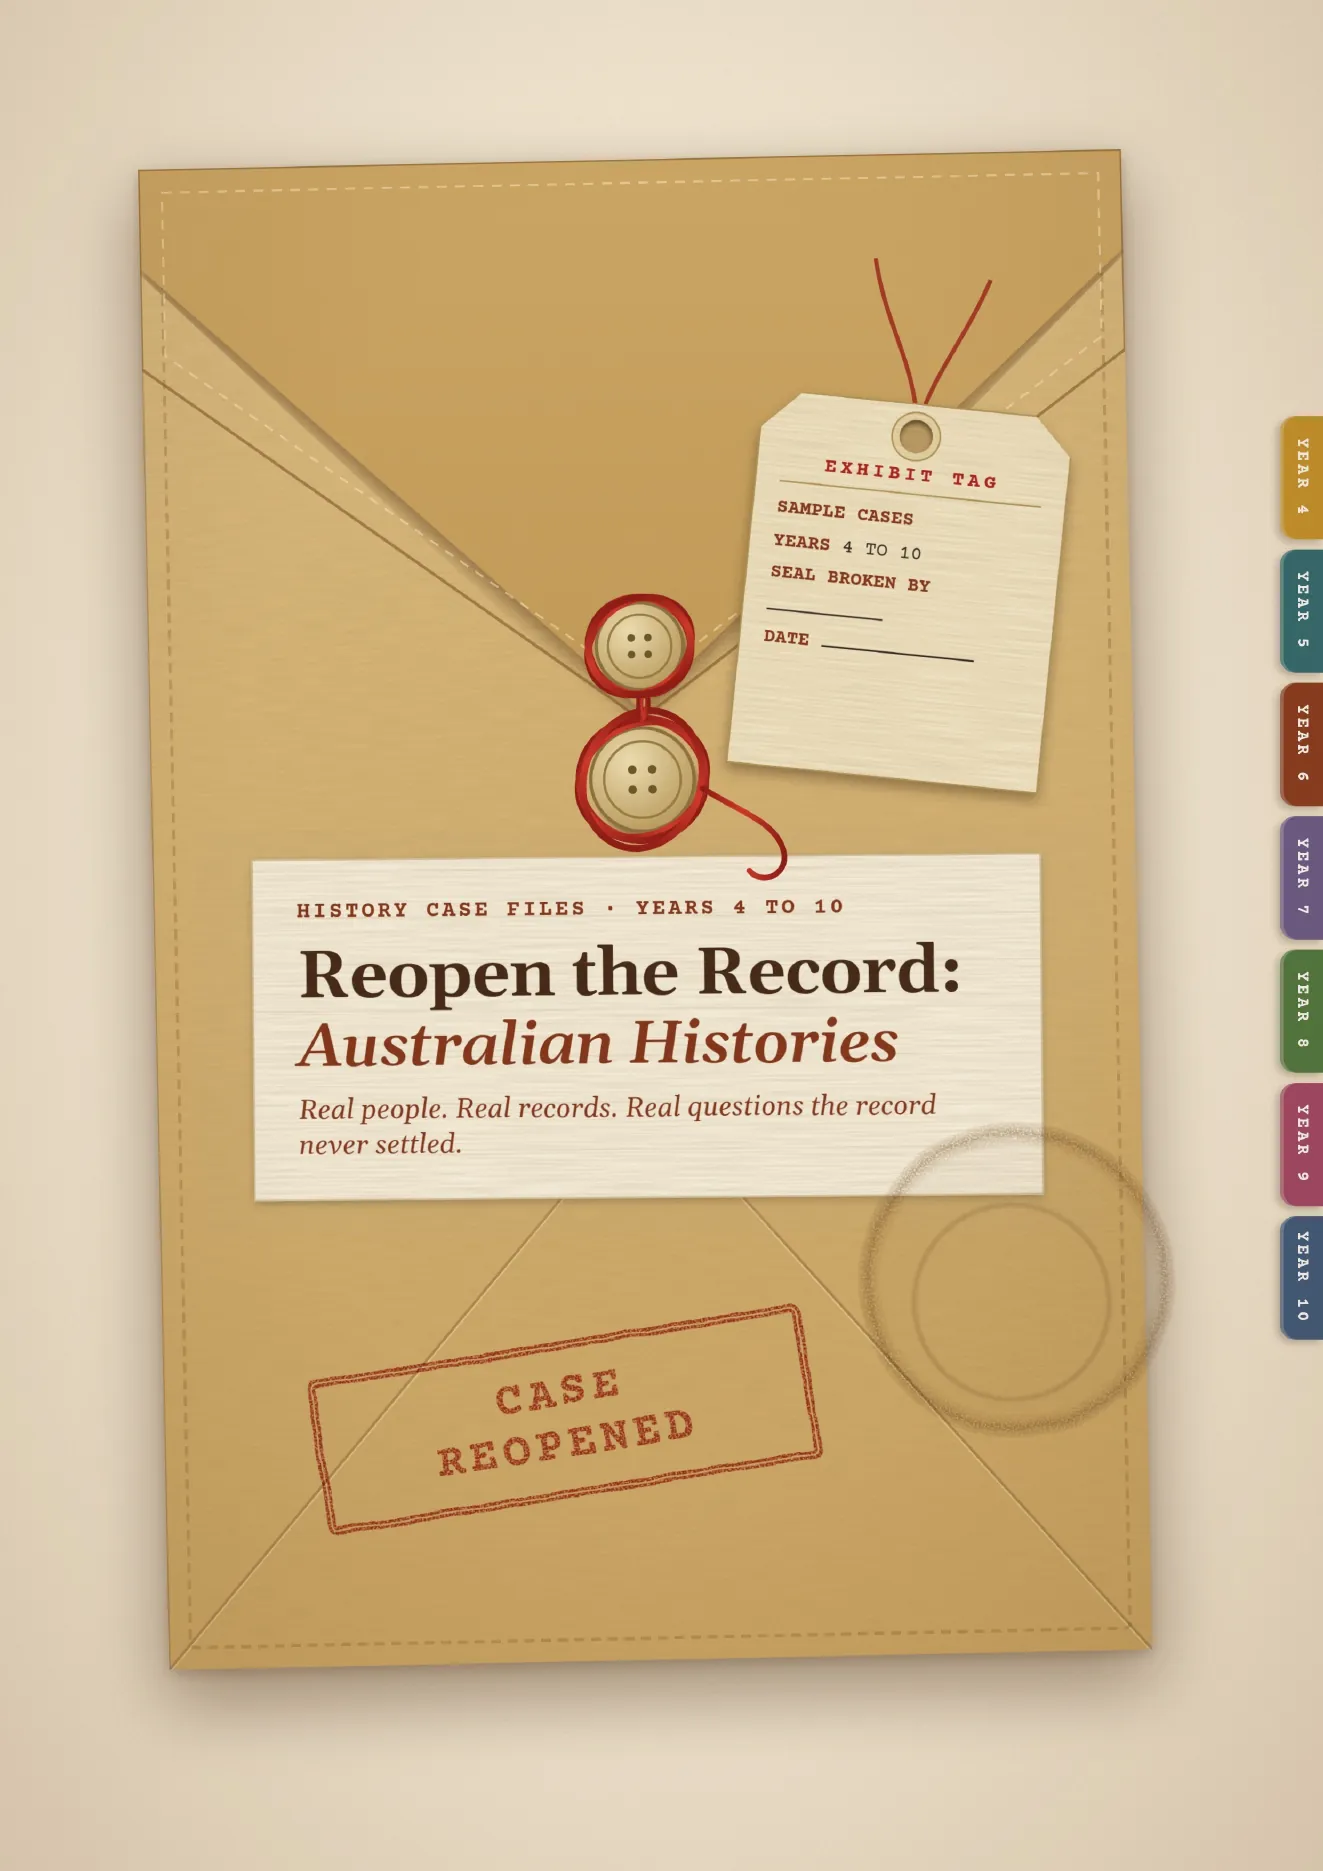
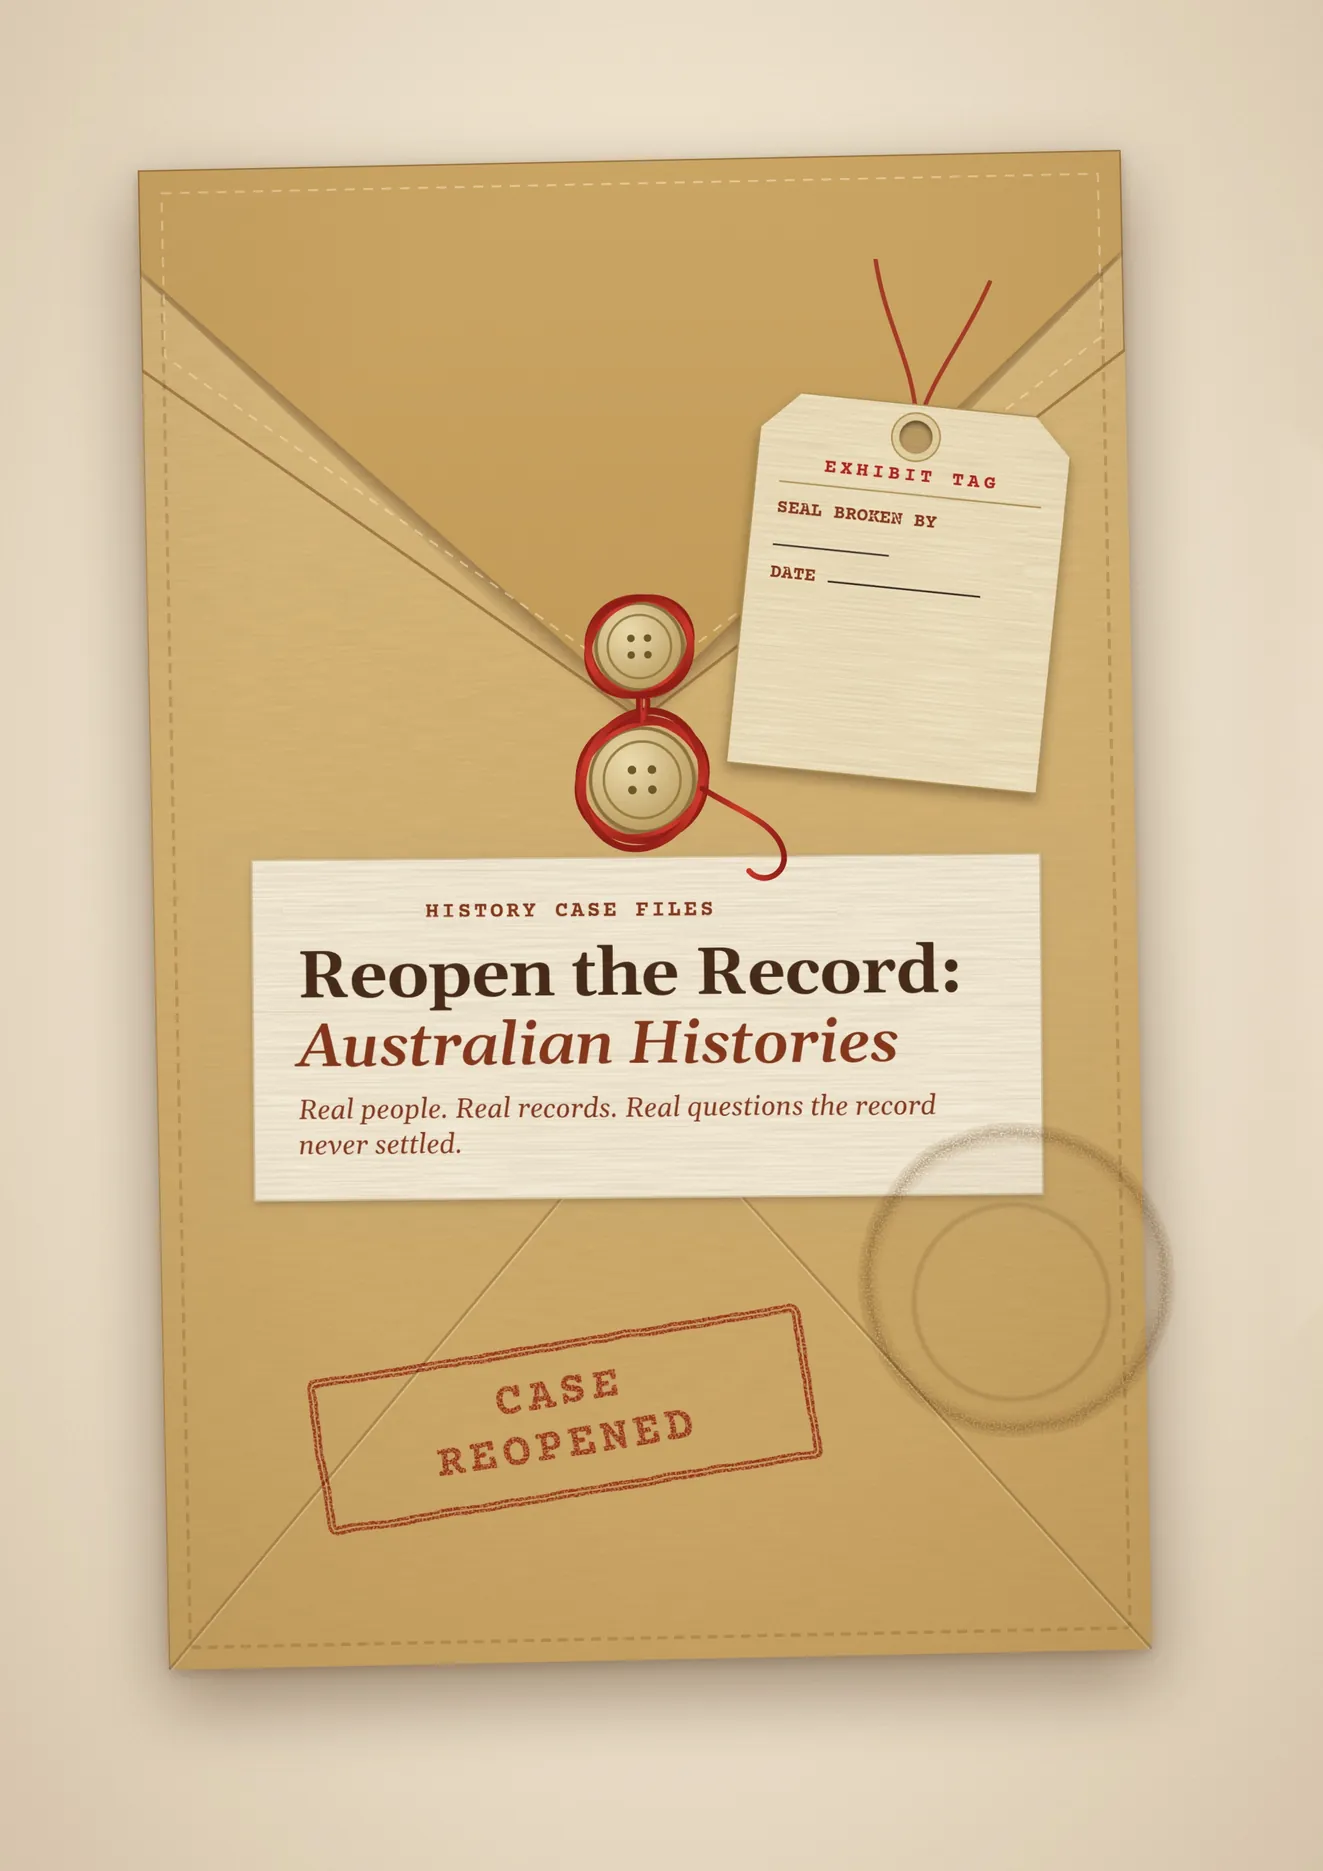
Remove SAMPLE CASES and year levels from the casebook cover

diff --git a/index.html b/index.html
@@ -14,8 +14,8 @@
   <meta property="og:url" content="https://robmac10.github.io/reopen-the-record/">
   <meta property="og:image" content="https://robmac10.github.io/reopen-the-record/assets/thumbs/p001.webp">
   <link rel="icon" href="assets/favicon.svg" type="image/svg+xml">
-  <link rel="stylesheet" href="assets/style.css?v=20261127b">
-  <link rel="stylesheet" href="assets/image-fit.css?v=20261127b">
+  <link rel="stylesheet" href="assets/style.css?v=20261127c">
+  <link rel="stylesheet" href="assets/image-fit.css?v=20261127c">
 </head>
 <body>
   <a class="skip" href="#main">Skip to the main content</a>
@@ -38,7 +38,7 @@
       <div class="wrap">
         <div class="cover-grid">
           <a class="cover-book" href="#p=1" aria-label="Open the book at the cover">
-            <img src="assets/pages/p001.webp" width="1323" height="1871" alt="Book cover: a manila exhibit envelope titled Reopen the Record: Australian Histories, Years 4 to 10, stamped Case Reopened.">
+            <img src="assets/pages/p001.webp" width="1323" height="1871" alt="Book cover: a manila exhibit envelope titled Reopen the Record: Australian Histories, stamped Case Reopened, with an exhibit tag.">
           </a>
           <div class="cover-copy">
             <p class="kicker">History case files</p>
@@ -142,7 +142,7 @@
     <p style="padding:1em;text-align:center">This book needs JavaScript to turn the pages. The intended address is https://robmac10.github.io/reopen-the-record/</p>
   </noscript>
 
-  <script src="assets/data.js?v=20261127b"></script>
-  <script src="assets/app.js?v=20261127b"></script>
+  <script src="assets/data.js?v=20261127c"></script>
+  <script src="assets/app.js?v=20261127c"></script>
 </body>
 </html>

diff --git a/assets/data.js b/assets/data.js
@@ -1522,7 +1522,7 @@ window.BOOK = {
     }
   ],
   "alts": {
-    "1": "Book cover: a manila exhibit envelope titled Reopen the Record: Australian Histories, Years 4 to 10, stamped Case Reopened, with an exhibit tag reading Sample Cases, and year-level tabs along the right edge.",
+    "1": "Book cover: a manila exhibit envelope titled Reopen the Record: Australian Histories, stamped Case Reopened, with an exhibit tag.",
     "2": "Page 2. Reopen the Record HISTORY CASE FILES Australian Histories Real people. Real records. Real questions the record never settled. Australian Curriculum: History (v9) In chronological order, all written",
     "3": "How a case file works. The pattern for every case: an opener, three witnesses, a finding, and optional Super Sleuths.",
     "4": "Page 4. Contents The ten story apps from the four-book series come first, in the order of the history they cover. The cold cases follow in one book. The main sequence runs in chronological order of the",
